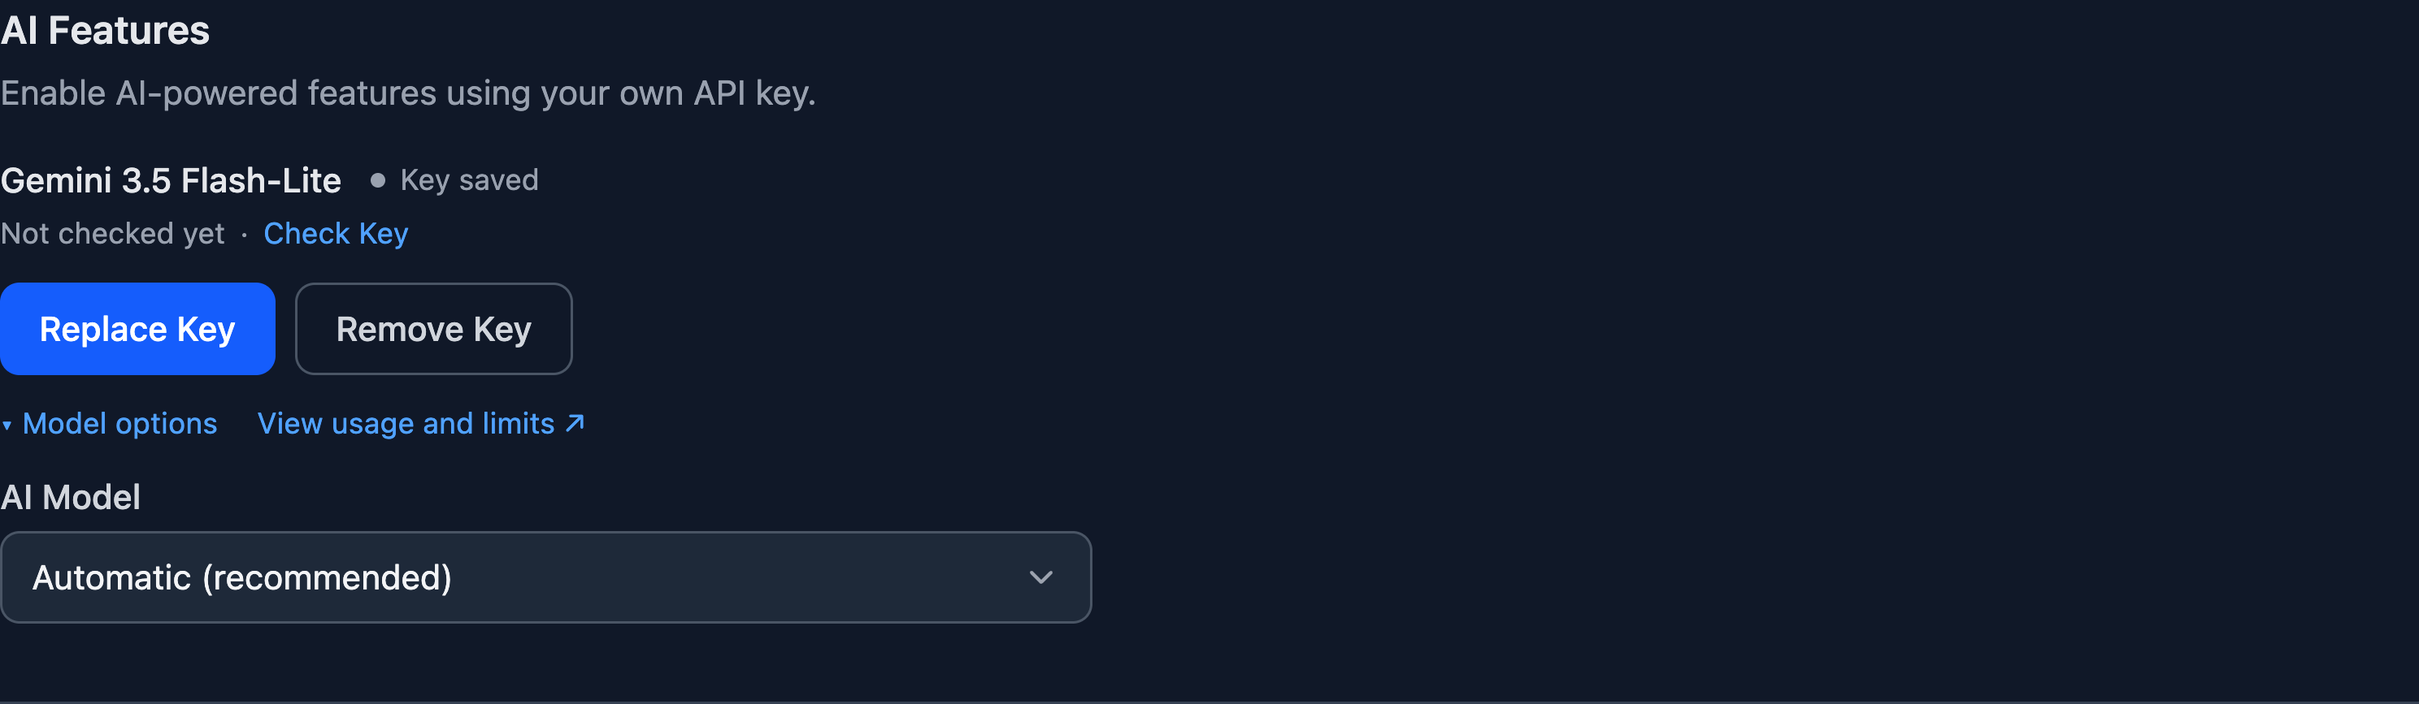
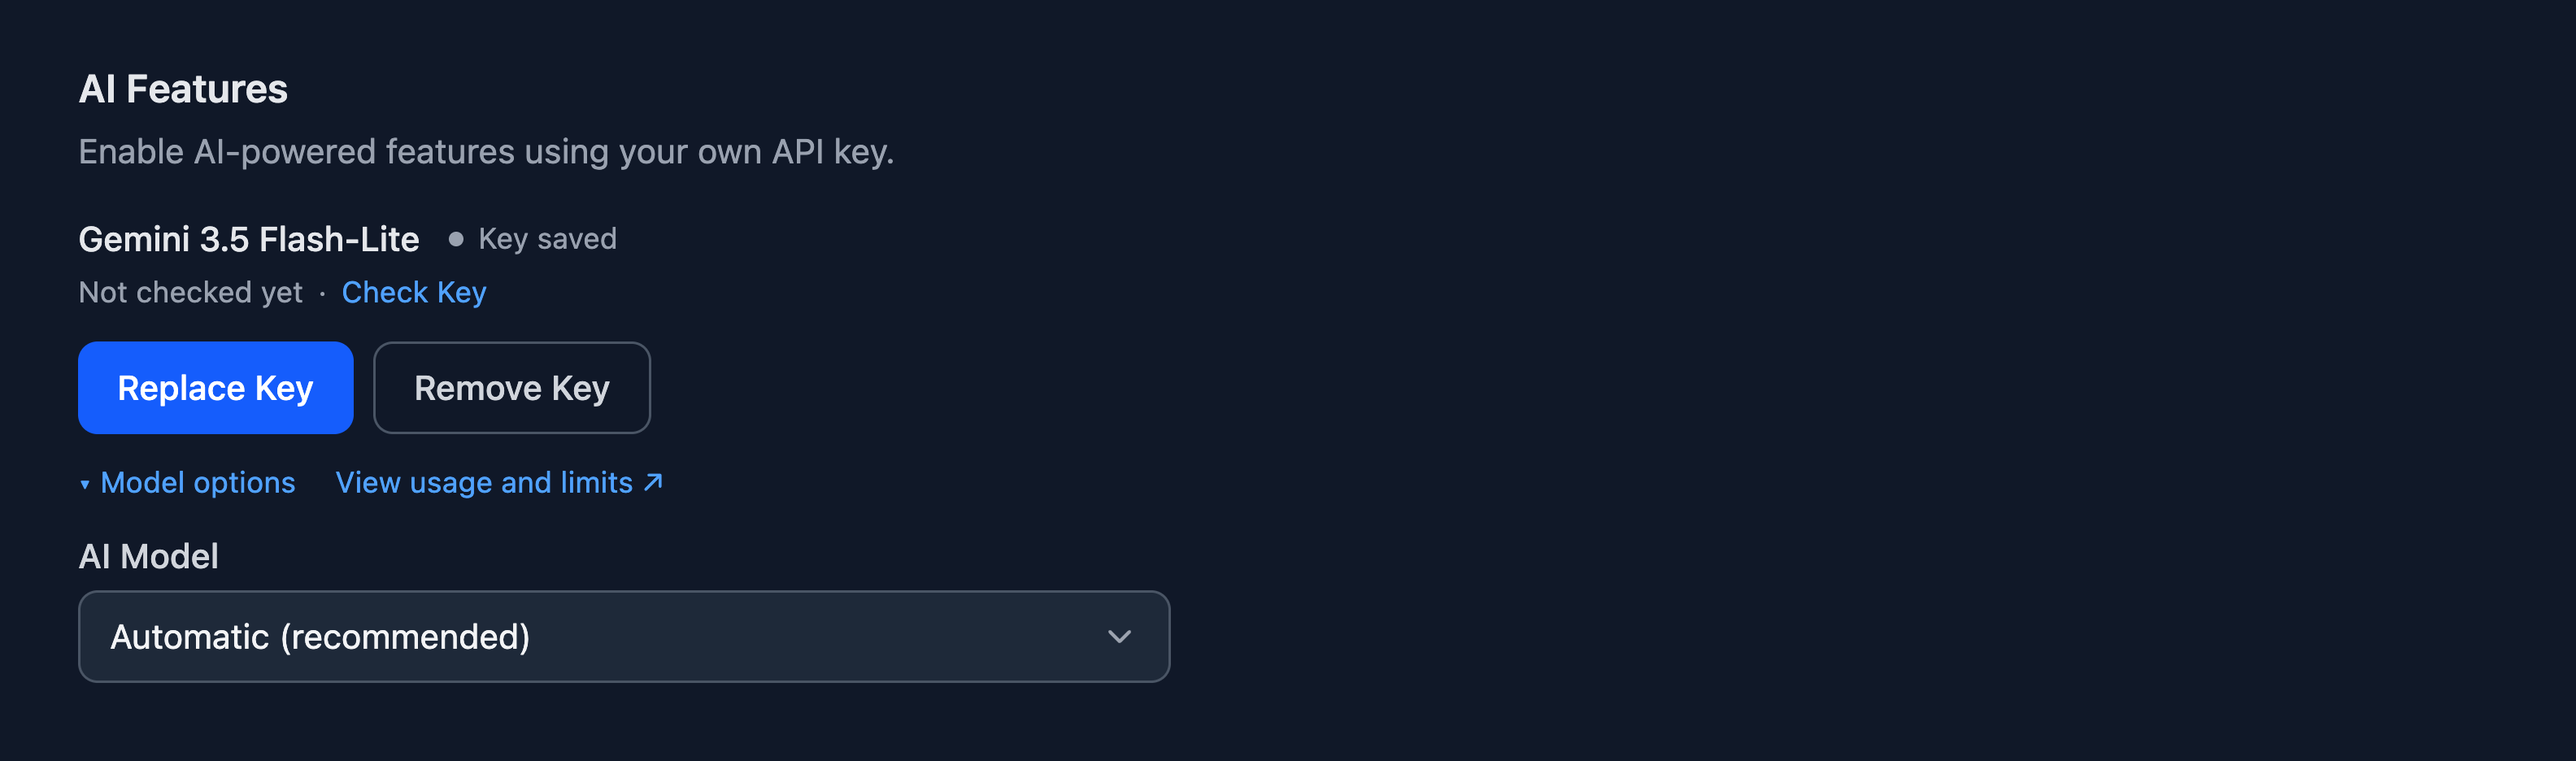
fix(site): recapture tightly framed UI screenshots

diff --git a/docs/index.html b/docs/index.html
@@ -179,12 +179,12 @@
                 aria-label="Enlarge screenshot: AI Features before adding a Gemini key"
               >
                 <img
-                  src="./assets/screenshots/ai-empty-light.webp?v=3ff84de1c951"
-                  data-light="./assets/screenshots/ai-empty-light.webp?v=3ff84de1c951"
-                  data-dark="./assets/screenshots/ai-empty-dark.webp?v=2b6c919df181"
+                  src="./assets/screenshots/ai-empty-light.webp?v=3995916d13fe"
+                  data-light="./assets/screenshots/ai-empty-light.webp?v=3995916d13fe"
+                  data-dark="./assets/screenshots/ai-empty-dark.webp?v=8607cc343cb6"
                   alt="AI Features before adding a Gemini key"
-                  width="992"
-                  height="227"
+                  width="1056"
+                  height="250"
                   loading="lazy"
                 />
               </button>
@@ -196,12 +196,12 @@
                 aria-label="Enlarge screenshot: AI Features with a saved Gemini key, model options, and usage link"
               >
                 <img
-                  src="./assets/screenshots/ai-light.webp?v=34f38a328578"
-                  data-light="./assets/screenshots/ai-light.webp?v=34f38a328578"
-                  data-dark="./assets/screenshots/ai-dark.webp?v=36940750ca8e"
+                  src="./assets/screenshots/ai-light.webp?v=016b217a7919"
+                  data-light="./assets/screenshots/ai-light.webp?v=016b217a7919"
+                  data-dark="./assets/screenshots/ai-dark.webp?v=f00bcf3eab14"
                   alt="AI Features with a saved Gemini key, model options, and usage link"
-                  width="992"
-                  height="289"
+                  width="1056"
+                  height="312"
                   loading="lazy"
                 />
               </button>
@@ -692,12 +692,12 @@
                       aria-label="Enlarge screenshot: Quick Fill settings with fill mode and searchable hidden sites"
                     >
                       <img
-                        src="./assets/screenshots/quick-fill-light.webp?v=51ba23cf98e3"
-                        data-light="./assets/screenshots/quick-fill-light.webp?v=51ba23cf98e3"
-                        data-dark="./assets/screenshots/quick-fill-dark.webp?v=928df7746335"
+                        src="./assets/screenshots/quick-fill-light.webp?v=335f78b7f3a2"
+                        data-light="./assets/screenshots/quick-fill-light.webp?v=335f78b7f3a2"
+                        data-dark="./assets/screenshots/quick-fill-dark.webp?v=d57ed777038a"
                         alt="Quick Fill settings with fill mode and searchable hidden sites"
-                        width="992"
-                        height="307"
+                        width="1056"
+                        height="330"
                         loading="lazy"
                       />
                     </button>
@@ -780,7 +780,7 @@
                 </figure>
               </div>
               <div id="report-views-1" data-visual-panel>
-                <figure class="stage-figure">
+                <figure>
                   <div class="capture">
                     <button
                       type="button"
@@ -788,12 +788,12 @@
                       aria-label="Enlarge screenshot: First name filled by a trusted learned mapping with its recorded trust information"
                     >
                       <img
-                        src="./assets/screenshots/stage-learned-light.webp?v=2924bc3b3406"
-                        data-light="./assets/screenshots/stage-learned-light.webp?v=2924bc3b3406"
-                        data-dark="./assets/screenshots/stage-learned-dark.webp?v=4d763811106b"
+                        src="./assets/screenshots/stage-learned-light.webp?v=ef089143e5ae"
+                        data-light="./assets/screenshots/stage-learned-light.webp?v=ef089143e5ae"
+                        data-dark="./assets/screenshots/stage-learned-dark.webp?v=bc3539e88811"
                         alt="First name filled by a trusted learned mapping with its recorded trust information"
-                        width="992"
-                        height="214"
+                        width="1056"
+                        height="212"
                         loading="lazy"
                       />
                     </button>
@@ -801,7 +801,7 @@
                 </figure>
               </div>
               <div id="report-views-2" data-visual-panel>
-                <figure class="stage-figure">
+                <figure>
                   <div class="capture">
                     <button
                       type="button"
@@ -809,12 +809,12 @@
                       aria-label="Enlarge screenshot: Current company filled by rules with the original match method, score and profile field"
                     >
                       <img
-                        src="./assets/screenshots/stage-rules-light.webp?v=1bee89cdc74f"
-                        data-light="./assets/screenshots/stage-rules-light.webp?v=1bee89cdc74f"
-                        data-dark="./assets/screenshots/stage-rules-dark.webp?v=e585369d3aa9"
+                        src="./assets/screenshots/stage-rules-light.webp?v=09579aa20882"
+                        data-light="./assets/screenshots/stage-rules-light.webp?v=09579aa20882"
+                        data-dark="./assets/screenshots/stage-rules-dark.webp?v=2dfe5a3668dc"
                         alt="Current company filled by rules with the original match method, score and profile field"
-                        width="992"
-                        height="215"
+                        width="1056"
+                        height="212"
                         loading="lazy"
                       />
                     </button>
@@ -822,7 +822,7 @@
                 </figure>
               </div>
               <div id="report-views-3" data-visual-panel>
-                <figure class="stage-figure">
+                <figure>
                   <div class="capture">
                     <button
                       type="button"
@@ -830,12 +830,12 @@
                       aria-label="Enlarge screenshot: Visa sponsorship field filled by AI with qualitative confidence and earlier stage results"
                     >
                       <img
-                        src="./assets/screenshots/stage-ai-light.webp?v=66eee2f43be0"
-                        data-light="./assets/screenshots/stage-ai-light.webp?v=66eee2f43be0"
-                        data-dark="./assets/screenshots/stage-ai-dark.webp?v=8ab21c783162"
+                        src="./assets/screenshots/stage-ai-light.webp?v=1456be21ed45"
+                        data-light="./assets/screenshots/stage-ai-light.webp?v=1456be21ed45"
+                        data-dark="./assets/screenshots/stage-ai-dark.webp?v=ae6c5854c7d8"
                         alt="Visa sponsorship field filled by AI with qualitative confidence and earlier stage results"
-                        width="992"
-                        height="186"
+                        width="1056"
+                        height="184"
                         loading="lazy"
                       />
                     </button>
@@ -1125,12 +1125,12 @@
                       aria-label="Enlarge screenshot: Export Profile settings with Download File action"
                     >
                       <img
-                        src="./assets/screenshots/export-profile-light.webp?v=9cd0f81bf697"
-                        data-light="./assets/screenshots/export-profile-light.webp?v=9cd0f81bf697"
-                        data-dark="./assets/screenshots/export-profile-dark.webp?v=546f8055701b"
+                        src="./assets/screenshots/export-profile-light.webp?v=95a1406656da"
+                        data-light="./assets/screenshots/export-profile-light.webp?v=95a1406656da"
+                        data-dark="./assets/screenshots/export-profile-dark.webp?v=c6ce1708d32f"
                         alt="Export Profile settings with Download File action"
-                        width="992"
-                        height="133"
+                        width="1056"
+                        height="156"
                         loading="lazy"
                       />
                     </button>
@@ -1150,12 +1150,12 @@
                       aria-label="Enlarge screenshot: Import Profile settings for choosing a Job Buddy JSON export"
                     >
                       <img
-                        src="./assets/screenshots/import-profile-light.webp?v=95895db3d11c"
-                        data-light="./assets/screenshots/import-profile-light.webp?v=95895db3d11c"
-                        data-dark="./assets/screenshots/import-profile-dark.webp?v=cd9df4e01f2b"
+                        src="./assets/screenshots/import-profile-light.webp?v=448627d548b0"
+                        data-light="./assets/screenshots/import-profile-light.webp?v=448627d548b0"
+                        data-dark="./assets/screenshots/import-profile-dark.webp?v=b41049f4b6f0"
                         alt="Import Profile settings for choosing a Job Buddy JSON export"
-                        width="992"
-                        height="135"
+                        width="1056"
+                        height="158"
                         loading="lazy"
                       />
                     </button>
@@ -1241,12 +1241,12 @@
                       aria-label="Enlarge screenshot: Connected Cloud Backup settings with backup status, Back Up Now and Disconnect"
                     >
                       <img
-                        src="./assets/screenshots/drive-light.webp?v=a0686959bea1"
-                        data-light="./assets/screenshots/drive-light.webp?v=a0686959bea1"
-                        data-dark="./assets/screenshots/drive-dark.webp?v=c8fa54cf0d2a"
+                        src="./assets/screenshots/drive-light.webp?v=7f72424998cd"
+                        data-light="./assets/screenshots/drive-light.webp?v=7f72424998cd"
+                        data-dark="./assets/screenshots/drive-dark.webp?v=93405a6d4edd"
                         alt="Connected Cloud Backup settings with backup status, Back Up Now and Disconnect"
-                        width="992"
-                        height="187"
+                        width="1056"
+                        height="210"
                         loading="lazy"
                       />
                     </button>

diff --git a/src/browser/site-captures.pw.ts b/src/browser/site-captures.pw.ts
@@ -17,6 +17,45 @@ async function capture(page: Page, info: TestInfo, name: string, target?: Locato
   } else await page.screenshot({ path: info.outputPath(`${name}.png`), animations: 'disabled' });
 }
 
+// Keep the real options-page gutters in component crops. These pixels come
+// from the running app, rather than padding painted around the image later.
+async function captureInPage(page: Page, info: TestInfo, name: string, target: Locator) {
+  await target.scrollIntoViewIfNeeded();
+  const content = await target.boundingBox();
+  const main = page.locator('main').first();
+  const bounds = await main.boundingBox();
+  const gutter = await main.evaluate((element) =>
+    parseFloat(getComputedStyle(element).paddingLeft),
+  );
+  if (!content || !bounds || !Number.isFinite(gutter) || gutter <= 0)
+    throw new Error(`Missing native page gutters: ${name}`);
+  const x = Math.max(bounds.x, Math.floor(content.x - gutter));
+  const right = Math.min(bounds.x + bounds.width, Math.ceil(content.x + content.width + gutter));
+  const spacing = await target.evaluate((element) => {
+    const style = getComputedStyle(element);
+    return {
+      paddingTop: parseFloat(style.paddingTop),
+      borderTop: parseFloat(style.borderTopWidth),
+      borderBottom: parseFloat(style.borderBottomWidth),
+      previousBottom: element.previousElementSibling?.getBoundingClientRect().bottom,
+    };
+  });
+  // Settings sections have a real gap above them; field rows already contain
+  // their own vertical inset. Keep adjacent section separators out of the crop.
+  const above =
+    spacing.paddingTop === 0
+      ? Math.min(24, Math.max(0, content.y - (spacing.previousBottom ?? bounds.y)))
+      : 0;
+  const y = Math.max(bounds.y, content.y - above + spacing.borderTop);
+  const bottom = content.y + content.height - spacing.borderBottom;
+  await page.mouse.move(0, 0);
+  await page.screenshot({
+    path: info.outputPath(`${name}.png`),
+    clip: { x, y, width: right - x, height: bottom - y },
+    animations: 'disabled',
+  });
+}
+
 async function captureRegion(
   page: Page,
   info: TestInfo,
@@ -107,7 +146,7 @@ for (const theme of ['light', 'dark'] as const) {
       .locator('..');
     await expect(section.locator('input#gemini-api-key')).toBeVisible();
     await expect(section.locator('input#gemini-api-key')).toHaveValue('');
-    await capture(options, info, `ai-empty-${theme}`, section);
+    await captureInPage(options, info, `ai-empty-${theme}`, section);
   });
 
   test(`website captures in ${theme} mode`, async ({ context, page, extension }, info) => {
@@ -237,7 +276,7 @@ for (const theme of ['light', 'dark'] as const) {
         if (!(await row.evaluate((el) => (el as HTMLDetailsElement).open))) await summary.click();
       }
       await row.getByRole('button', { name: new RegExp(`^${stage}:`) }).click();
-      await capture(options, info, `${name}-${theme}`, row);
+      await captureInPage(options, info, `${name}-${theme}`, row);
     }
     await options.getByRole('button', { name: 'Personal', exact: true }).click();
     await expect(options.getByLabel('First Name', { exact: false }).first()).toBeVisible();
@@ -315,7 +354,7 @@ for (const theme of ['light', 'dark'] as const) {
       .getByRole('heading', { name: 'AI Features', exact: true })
       .scrollIntoViewIfNeeded();
     await options.getByRole('button', { name: /Model options/ }).click();
-    await capture(
+    await captureInPage(
       options,
       info,
       `ai-${theme}`,
@@ -325,7 +364,7 @@ for (const theme of ['light', 'dark'] as const) {
       .getByRole('heading', { name: 'Quick Fill', exact: true })
       .scrollIntoViewIfNeeded();
     await options.getByText('Hidden sites (2)', { exact: true }).click();
-    await capture(
+    await captureInPage(
       options,
       info,
       `quick-fill-${theme}`,
@@ -335,13 +374,13 @@ for (const theme of ['light', 'dark'] as const) {
       .getByRole('heading', { name: 'Export Profile', exact: true })
       .scrollIntoViewIfNeeded();
     await capture(options, info, `backup-${theme}`);
-    await capture(
+    await captureInPage(
       options,
       info,
       `export-profile-${theme}`,
       options.getByRole('heading', { name: 'Export Profile', exact: true }).locator('..'),
     );
-    await capture(
+    await captureInPage(
       options,
       info,
       `import-profile-${theme}`,
@@ -442,7 +481,7 @@ for (const theme of ['light', 'dark'] as const) {
       .getByRole('heading', { name: 'Cloud Backup', exact: true })
       .scrollIntoViewIfNeeded();
     await expect(preview.getByRole('button', { name: 'Disconnect', exact: true })).toBeVisible();
-    await capture(
+    await captureInPage(
       preview,
       info,
       `drive-${theme}`,

diff --git a/docs/assets/site.css b/docs/assets/site.css
@@ -776,10 +776,6 @@ pre code {
     padding-block: 24px;
   }
 }
-.component-figure .capture,
-.stage-figure .capture {
-  padding: 22px;
-}
 .component-figure {
   max-width: 820px;
 }
